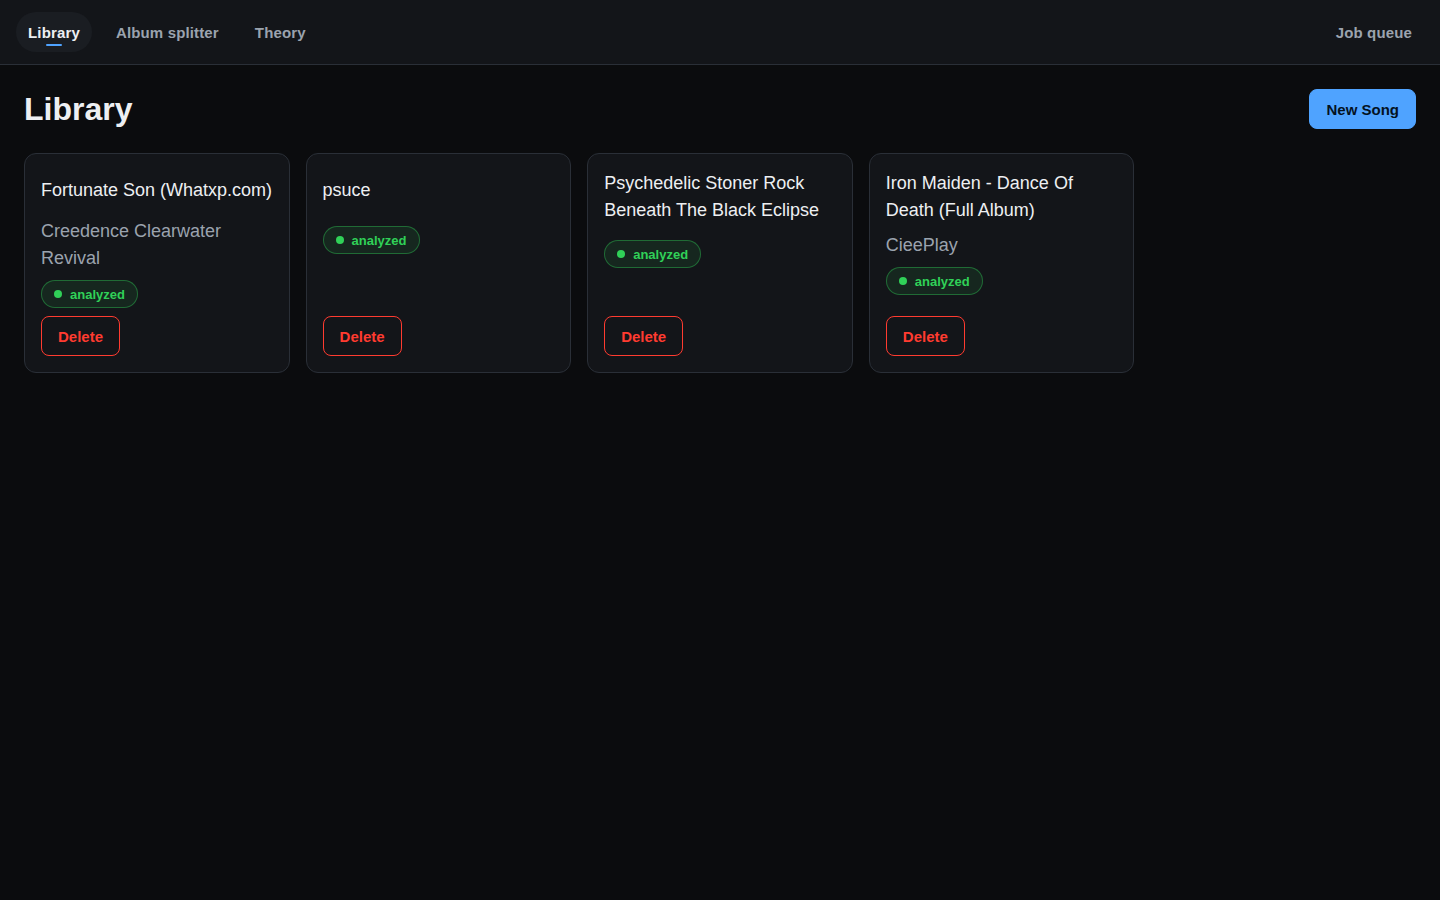
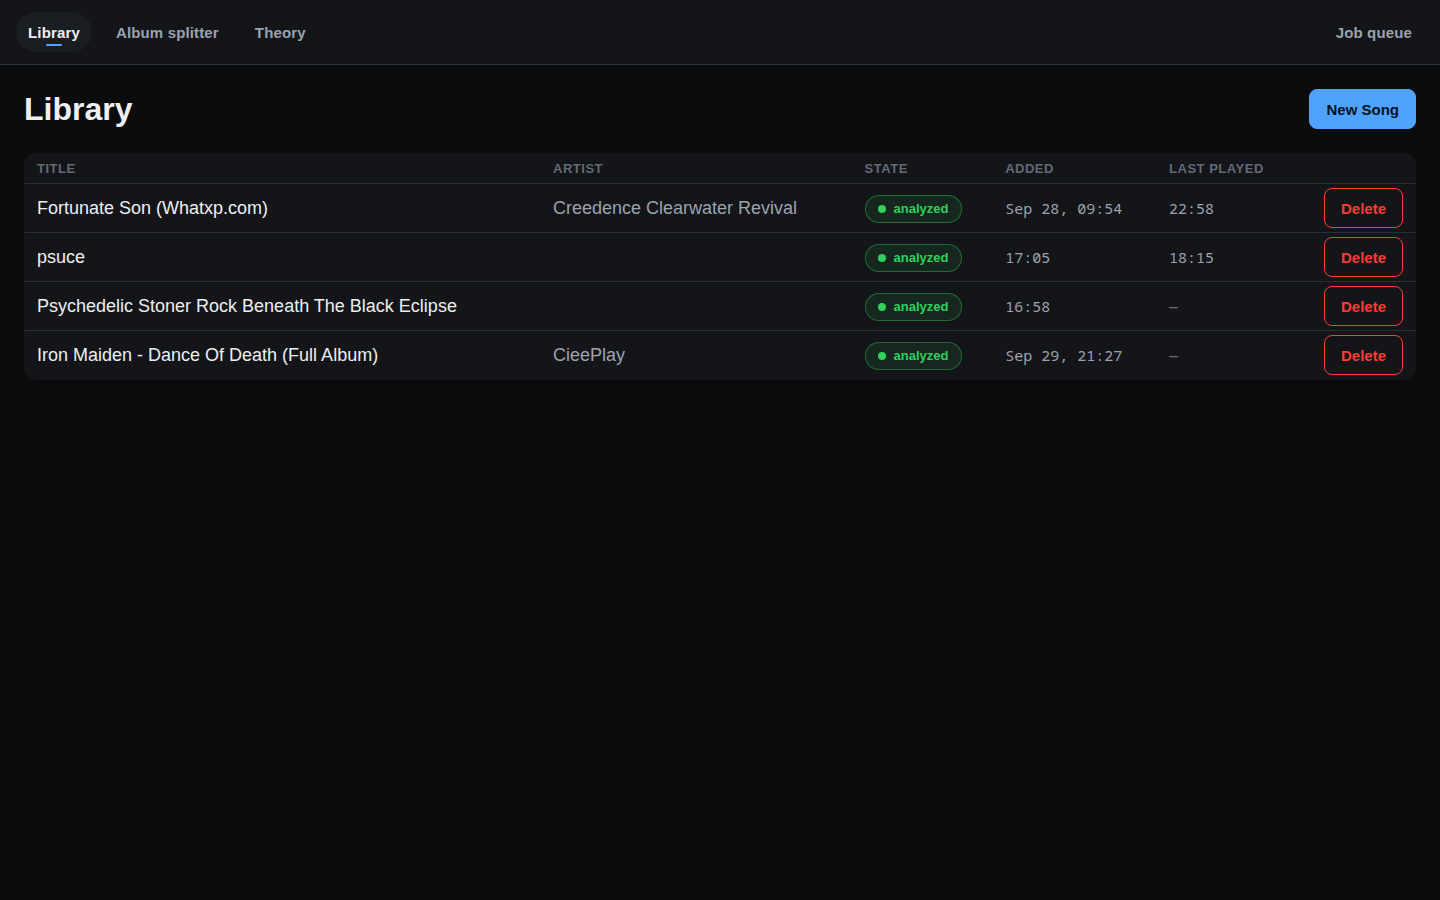
feat(library): songs as a compact table

diff --git a/frontend/src/screens/Library.tsx b/frontend/src/screens/Library.tsx
@@ -1,9 +1,10 @@
-// Domain spec, "Song library": one card per Song, sorted by last played;
+// Domain spec, "Song library": one table row per Song, sorted by last played;
 // delete removes the Song folder after a confirmation.
 import { Link, useLocation } from 'react-router-dom';
 
 import type { SongEntry } from '../api/client';
 import { useDeleteSong, useSongs } from '../api/queries';
+import { formatJobTime, formatJobTimeFull } from './jobTime';
 import { importLinkState } from './import/importLink';
 import { Banner, Button, ButtonLink, Chip, EmptyState, type ChipTone } from '../ui';
 import styles from './Library.module.css';
@@ -20,6 +21,17 @@ const STATE_TONE: Record<string, ChipTone> = {
 
 function sortKey(entry: SongEntry): string {
   return entry.song?.last_played_at ?? entry.song?.created_at ?? '';
+}
+
+// ISO timestamp from song.json; a song that was never played has none.
+function when(iso: string | null) {
+  const ms = iso ? Date.parse(iso) : NaN;
+  if (Number.isNaN(ms)) return <span className="dim3">—</span>;
+  return (
+    <time dateTime={new Date(ms).toISOString()} title={formatJobTimeFull(ms / 1000)}>
+      {formatJobTime(ms / 1000)}
+    </time>
+  );
 }
 
 export function Library() {
@@ -58,35 +70,59 @@ export function Library() {
         </EmptyState>
       )}
 
-      <ul className={styles.grid}>
-        {entries.map((entry) => (
-          <li key={entry.dir} className={styles.card}>
-            {entry.song ? (
-              <>
-                {/* The Song view is one click from the card. It renders its
-                    own explanation for a song that has no stems yet, so the
-                    link is not gated on state. */}
-                <Link className={styles.title} to={`/songs/${entry.song.id}`}>
-                  {entry.song.title}
-                </Link>
-                <span className={styles.artist}>{entry.song.artist}</span>
-                <Chip tone={STATE_TONE[entry.state ?? ''] ?? 'neutral'} dot>
-                  {entry.state}
-                </Chip>
-              </>
-            ) : (
-              <>
-                <span className={styles.title}>{entry.dir}</span>
-                {/* §9: one bad file never breaks the library -- shown, not hidden. */}
-                <Banner tone="error" title="This song could not be read" trace={entry.unreadable} />
-              </>
-            )}
-            <Button className={styles.delete} variant="danger" onClick={() => handleDelete(entry)}>
-              Delete
-            </Button>
-          </li>
-        ))}
-      </ul>
+      {entries.length > 0 && (
+        <table className={styles.table} aria-label="Songs">
+          <thead>
+            <tr>
+              <th scope="col">Title</th>
+              <th scope="col">Artist</th>
+              <th scope="col">State</th>
+              <th scope="col" className={styles.narrowHide}>Added</th>
+              <th scope="col" className={styles.narrowHide}>Last played</th>
+              <th scope="col"><span className={styles.srOnly}>Actions</span></th>
+            </tr>
+          </thead>
+          <tbody>
+            {entries.map((entry) => (
+              <tr key={entry.dir}>
+                {entry.song ? (
+                  <>
+                    {/* The Song view is one click from the row. It renders its own
+                        explanation for a song that has no stems yet, so the link is not
+                        gated on state. */}
+                    <td>
+                      <Link className={styles.title} to={`/songs/${entry.song.id}`}>
+                        {entry.song.title}
+                      </Link>
+                    </td>
+                    <td className={styles.artist}>{entry.song.artist}</td>
+                    <td>
+                      <Chip tone={STATE_TONE[entry.state ?? ''] ?? 'neutral'} dot>
+                        {entry.state}
+                      </Chip>
+                    </td>
+                    <td className={`${styles.num} ${styles.narrowHide}`}>{when(entry.song.created_at)}</td>
+                    <td className={`${styles.num} ${styles.narrowHide}`}>{when(entry.song.last_played_at)}</td>
+                  </>
+                ) : (
+                  <>
+                    <td className={styles.title}>{entry.dir}</td>
+                    {/* §9: one bad file never breaks the library -- shown, not hidden. */}
+                    <td colSpan={4}>
+                      <Banner tone="error" title="This song could not be read" trace={entry.unreadable} />
+                    </td>
+                  </>
+                )}
+                <td className={styles.action}>
+                  <Button variant="danger" onClick={() => handleDelete(entry)}>
+                    Delete
+                  </Button>
+                </td>
+              </tr>
+            ))}
+          </tbody>
+        </table>
+      )}
     </section>
   );
 }

diff --git a/frontend/src/screens/Library.module.css b/frontend/src/screens/Library.module.css
@@ -11,32 +11,39 @@
   gap: var(--ds-4);
 }
 
-.grid {
-  display: grid;
-  grid-template-columns: repeat(auto-fill, minmax(240px, 1fr));
-  gap: var(--ds-4);
-  margin: 0;
-  padding: 0;
-  list-style: none;
-}
-
-.card {
-  display: flex;
-  flex-direction: column;
-  align-items: flex-start;
-  gap: var(--ds-2);
-  padding: var(--ds-4);
+/* Compact: one line per song, so a large library fits on the page. */
+.table {
+  width: 100%;
+  border-collapse: collapse;
   background: var(--ds-surface);
   border: 1px solid var(--ds-border);
   border-radius: var(--ds-r-panel);
+  overflow: hidden;
 }
 
-/* The card's primary navigation, so a setup-tier target (U-03), not a bare text line. */
+.table th {
+  padding: var(--ds-2) var(--ds-3);
+  text-align: left;
+  font: 600 var(--ds-t-xs, var(--ds-t-sm)) / 1 var(--ds-font);
+  letter-spacing: 0.04em;
+  text-transform: uppercase;
+  color: var(--ds-text-3);
+  border-bottom: 1px solid var(--ds-border);
+}
+
+.table td {
+  padding: var(--ds-1) var(--ds-3);
+  border-bottom: 1px solid var(--ds-border);
+  vertical-align: middle;
+}
+
+.table tbody > tr:last-child > td { border-bottom: 0; }
+
+/* The row's primary navigation, so a setup-tier target (U-03), not a bare text line. */
 .title {
   display: inline-flex;
   align-items: center;
   min-height: var(--ds-hit-setup);
-  align-self: flex-start;
   font-size: var(--ds-t-md);
   color: var(--ds-text);
   text-decoration: none;
@@ -47,14 +54,25 @@
   text-decoration: underline;
 }
 
-.artist {
+.artist { color: var(--ds-text-2); }
+
+.num {
+  white-space: nowrap;
+  font: 400 var(--ds-t-sm) / var(--ds-lh-sm) var(--ds-mono);
+  font-variant-numeric: tabular-nums;
   color: var(--ds-text-2);
 }
 
-.delete {
-  align-self: flex-start;
+.action { text-align: right; white-space: nowrap; }
+
+.srOnly {
+  position: absolute;
+  width: 1px;
+  height: 1px;
+  overflow: hidden;
+  clip-path: inset(50%);
 }
 
-.delete {
-  margin-top: auto;
+@media (max-width: 760px) {
+  .narrowHide { display: none; }
 }
